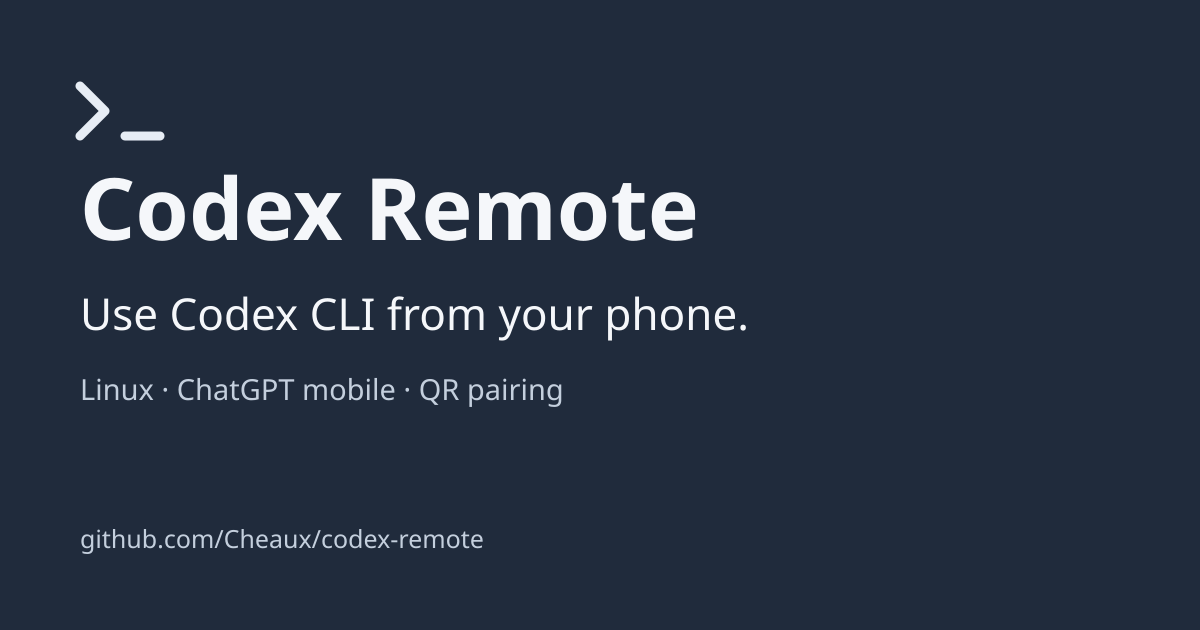
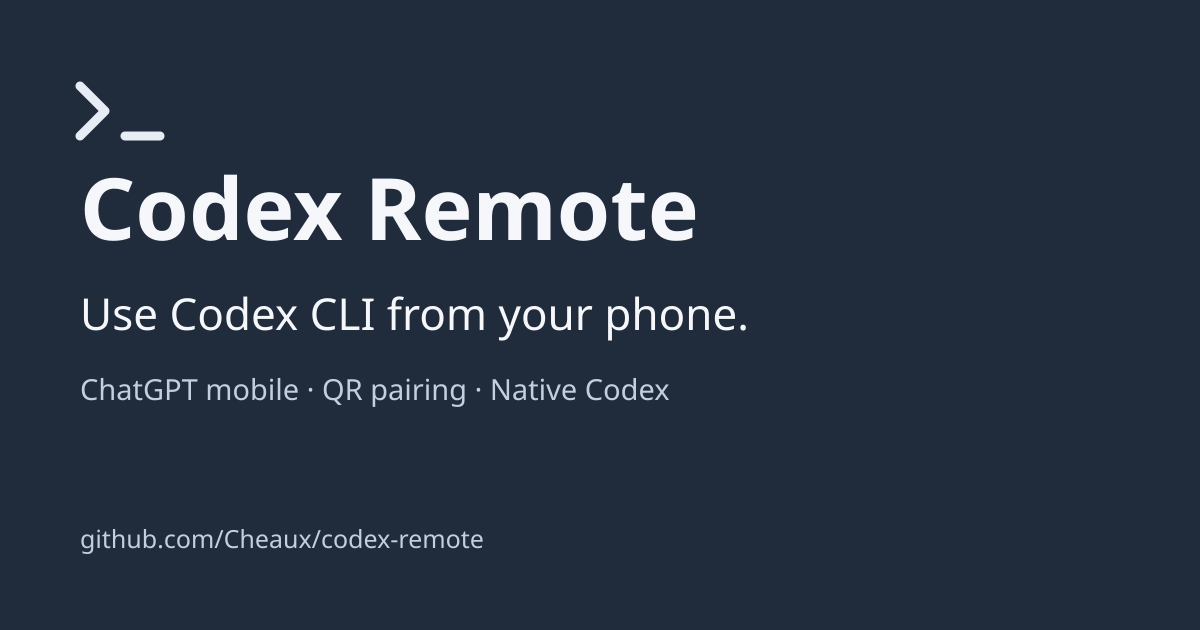
Document setup across operating systems with verification status

Changed region(s): [[0.0617, 0.6032, 0.555, 0.6635]]

diff --git a/README.md b/README.md
@@ -4,7 +4,9 @@
 [![Release](https://img.shields.io/github/v/release/Cheaux/codex-remote)](https://github.com/Cheaux/codex-remote/releases/latest)
 [![License: MIT](https://img.shields.io/badge/license-MIT-blue.svg)](LICENSE)
 
-**Connect Codex running on your Linux PC to the official ChatGPT phone app.** Generate a pairing QR, check connected devices, and manage remote access from your terminal or by asking Codex.
+**Connect Codex running on your computer to the official ChatGPT phone app.** Generate a pairing QR, check connected devices, and manage remote access from your terminal or by asking Codex.
+
+Use any operating system where Codex provides the required native managed-server remote interface. Linux is verified; macOS, Windows, and other operating systems are currently untested.
 
 Codex Remote is a community plugin by [Cheaux](https://github.com/Cheaux). It uses Codex's native remote service and your existing ChatGPT sign-in. OpenAI does not maintain or endorse this plugin.
 
@@ -25,7 +27,7 @@ The plugin uses the existing Codex daemon. It preserves local conversations and 
 
 You need:
 
-1. A **Linux PC** with **[Node.js 24 or newer](https://nodejs.org/en/download)**, including npm.
+1. A computer on **any OS** with **[Node.js 24 or newer](https://nodejs.org/en/download)**, including npm, and Codex's required native managed-server remote interface. See the [testing status](#compatibility) below.
 2. **[Codex CLI](https://learn.chatgpt.com/docs/cli/)** installed and signed in with ChatGPT. The tested Codex version is **0.163.0**.
 3. The official ChatGPT app on your phone, using the **same account and workspace** as Codex. Account or workspace policies may restrict remote access.
 4. An internet connection. Your PC must stay awake with Codex's managed server running while you use it remotely.
@@ -41,7 +43,9 @@ The native remote interface is experimental. **Android pairing and existing-chat
 
 ## Install and pair
 
-Run these commands in a regular terminal on your Linux PC. They install the built release into your user account; `sudo` is not needed.
+Run the commands for your shell in a regular terminal on your computer. The Bash/Zsh commands install into your user account without `sudo`.
+
+**Bash / Zsh (Linux or macOS):**
 
 ```sh
 export PATH="$HOME/.local/bin:$PATH"
@@ -50,6 +54,16 @@ npm install --global --prefix "$HOME/.local" --ignore-scripts \
 codex-remote install
 codex-remote qr
 ```
+
+**PowerShell (Windows, untested):**
+
+```powershell
+npm install --global --ignore-scripts https://github.com/Cheaux/codex-remote/releases/download/v0.1.0/codex-remote-0.1.0.tgz
+codex-remote install
+codex-remote qr
+```
+
+The PowerShell commands use npm's default global installation directory. Native Codex must expose the same managed-server remote interface; installation alone does not establish OS compatibility.
 
 `codex-remote install` registers the plugin with Codex. `codex-remote qr` enables persistent remote access if needed and displays a short-lived pairing code.
 
@@ -64,7 +78,7 @@ In that new Codex conversation, try:
 
 You only need a fresh QR when pairing another device or replacing an expired code. For an existing connection, ask **“Check my remote connection”** instead.
 
-If a new terminal cannot find `codex-remote`, add `export PATH="$HOME/.local/bin:$PATH"` to your shell's startup file. The [installation guide](https://cheaux.github.io/codex-remote/install/) explains this for Bash and Zsh.
+If a new Bash/Zsh terminal cannot find `codex-remote`, add `export PATH="$HOME/.local/bin:$PATH"` to your shell's startup file. For PowerShell, check that npm's global executable directory is on PATH. The [installation guide](https://cheaux.github.io/codex-remote/install/) explains both paths.
 
 ## Commands you will use
 
@@ -96,7 +110,8 @@ This standalone Remote release does not include that launcher. Without it, use `
 | iPhone pairing | Uses the same native link; end-to-end verification pending |
 | Creating a new chat from the phone | Verification pending |
 | Mobile approvals and steering an active task | Verification pending |
-| macOS or Windows hosts | Not supported by this release |
+| macOS or Windows hosts | Untested; requires a compatible native Codex managed-server remote interface |
+| Other operating systems | Untested; requires Node 24+ and the same native interface |
 | Sessions started with `--no-daemon` | Outside the shared server; not migrated by this plugin |
 
 A connected relay does not prove a phone has paired. Check both `status` and `devices list`. The plugin makes native remote features easier to access; it cannot bypass account restrictions or add missing native mobile features.
@@ -114,6 +129,8 @@ npm uninstall --global --prefix "$HOME/.local" codex-remote
 ```
 
 These removal commands preserve native device pairings and remote preferences. [More troubleshooting and answers](https://cheaux.github.io/codex-remote/troubleshooting/)
+
+On Windows, use the same two plugin removal commands, followed by `npm uninstall --global codex-remote` for the default-prefix installation above.
 
 ## How it works
 

diff --git a/docs/install.md b/docs/install.md
@@ -1,11 +1,11 @@
 ---
-title: Install Codex Remote on Linux
+title: Install Codex Remote on your computer
 description: Install the built Codex Remote release without sudo, register its plugin, configure PATH, and pair the ChatGPT phone app.
 permalink: /install/
 ---
 {% include nav.html %}
 
-# Install Codex Remote on Linux
+# Install Codex Remote on your computer
 
 These steps install the CLI into your user account and register its plugin with Codex. You do not need to build the source, create an API key, or install the separate Codex Folders launcher.
 
@@ -18,13 +18,13 @@ node --version
 codex --version
 ```
 
-Use a Linux PC. Codex **0.163.0** is the tested baseline; this plugin relies on its experimental native managed-server interface.
+Use any operating system where Codex exposes the required native managed-server remote interface. Linux with Codex **0.163.0** is the tested baseline. macOS, Windows, and other operating systems are untested; installing the package alone does not verify native compatibility.
 
 Install the official ChatGPT app on your phone and sign in with the same account and workspace. Some accounts or organizations may restrict remote access.
 
 ## 2. Install the built release
 
-Run this in your regular PC terminal:
+For **Bash/Zsh on Linux or macOS**, run this in your regular terminal:
 
 ```sh
 export PATH="$HOME/.local/bin:$PATH"
@@ -33,7 +33,14 @@ npm install --global --prefix "$HOME/.local" --ignore-scripts \
 codex-remote install
 ```
 
-No `sudo` is needed. The `.tgz` release already includes the built CLI and hidden plugin manifests. GitHub's automatic **Source code ZIP** is for development and does not include the built CLI.
+For **PowerShell on Windows (untested)**:
+
+```powershell
+npm install --global --ignore-scripts {{ site.release_url }}
+codex-remote install
+```
+
+The Bash/Zsh installation uses your user directory; the PowerShell installation uses npm's default global prefix. The `.tgz` release already includes the built CLI and hidden plugin manifests. GitHub's automatic **Source code ZIP** is for development and does not include the built CLI.
 
 The install command registers the bundled `codex-remote-local` marketplace and `codex-remote` plugin in your selected Codex home. It does not enable remote access or restart the server.
 
@@ -62,13 +69,13 @@ For an already paired phone, ask **“Check my remote connection”** to inspect
 
 ## Make the command available in future terminals
 
-If `codex-remote` is not found in a fresh terminal, put this line in the startup file for the shell you actually use:
+For the Bash/Zsh installation, if `codex-remote` is not found in a fresh terminal, put this line in the startup file for the shell you actually use:
 
 ```sh
 export PATH="$HOME/.local/bin:$PATH"
 ```
 
-For Zsh, edit `~/.zshrc`. For Bash, edit `~/.bashrc`. Add the line once, save, then open a new terminal. Also make sure `codex` remains available on PATH. [PATH troubleshooting]({{ '/troubleshooting/' | relative_url }}#command-not-found)
+For Zsh, edit `~/.zshrc`. For Bash, edit `~/.bashrc`. Add the line once, save, then open a new terminal. For the Windows installation, run `npm prefix --global` and check that directory is on PATH, then reopen your terminal. Also make sure `codex` remains available on PATH. [PATH troubleshooting]({{ '/troubleshooting/' | relative_url }}#command-not-found)
 
 ## Update
 
@@ -91,3 +98,5 @@ npm uninstall --global --prefix "$HOME/.local" codex-remote
 ```
 
 Uninstallation alone preserves native remote preferences and device pairings. Use `devices revoke DEVICE_ID` before uninstalling if you also want to remove a particular paired device.
+
+For the Windows default-prefix installation, use `npm uninstall --global codex-remote` after the same plugin and marketplace removal commands.

diff --git a/docs/index.md b/docs/index.md
@@ -1,13 +1,13 @@
 ---
 title: Control Codex CLI from your phone
-description: Connect terminal Codex on Linux to the official ChatGPT app. Install Codex Remote, scan a QR, and continue an existing chat from Android.
+description: Connect terminal Codex on your computer to the official ChatGPT app. Install Codex Remote, scan a QR, and continue an existing chat from Android.
 permalink: /
 ---
 {% include nav.html %}
 
 # Use Codex CLI from your phone
 
-**Codex Remote connects terminal Codex on your Linux PC to the official ChatGPT phone app.** Pair with a QR code, continue an existing chat, and manage remote devices from your terminal or by asking Codex.
+**Codex Remote connects terminal Codex on your computer to the official ChatGPT phone app.** Pair with a QR code, continue an existing chat, and manage remote devices from your terminal or by asking Codex.
 
 It is a community plugin by [Cheaux](https://github.com/Cheaux), using Codex's native remote service and your existing ChatGPT account. OpenAI does not maintain or endorse this project.
 
@@ -17,7 +17,7 @@ It is a community plugin by [Cheaux](https://github.com/Cheaux), using Codex's n
 
 ## What you need
 
-- A Linux PC with Node.js 24+ and Codex CLI signed in with ChatGPT.
+- A computer with Node.js 24+ and Codex CLI signed in with ChatGPT, on any OS that exposes the required native managed-server remote interface.
 - The official ChatGPT phone app, signed into the same account and workspace.
 - Your PC awake, online, and running Codex's managed server while you connect remotely.
 
@@ -39,7 +39,7 @@ The plugin preserves local sessions and existing pairings. There is no separate 
 
 Android pairing and continuing an existing conversation were verified on a real phone. iPhone uses the same native pairing link, but its end-to-end check is pending. New mobile chat creation, approvals, and steering also need further verification.
 
-This release supports Linux hosts. The native APIs are experimental; macOS and Windows hosts are not supported by this release. [Detailed compatibility and answers]({{ '/faq/' | relative_url }})
+Linux hosts are verified. macOS, Windows, and other operating systems are untested and need a compatible native managed-server remote interface. The native APIs are experimental. [Detailed compatibility and answers]({{ '/faq/' | relative_url }})
 
 ## Does this add `/qr` to Codex?
 

diff --git a/RELEASE_NOTES.md b/RELEASE_NOTES.md
@@ -1,8 +1,8 @@
-Connect Codex CLI on your Linux PC to the official ChatGPT phone app through Codex's native remote service.
+Connect Codex CLI on your computer to the official ChatGPT phone app through Codex's native remote service.
 
 ### Install
 
-Requires Linux, Node 24+, and Codex signed in with ChatGPT. Codex 0.163.0 is the tested baseline.
+Requires Node 24+ and Codex signed in with ChatGPT, on an OS exposing the required native managed-server remote interface. Linux with Codex 0.163.0 is verified; macOS, Windows, and other operating systems are untested. These commands use Bash/Zsh; see the installation guide for PowerShell commands.
 
 ```sh
 export PATH="$HOME/.local/bin:$PATH"
@@ -20,7 +20,7 @@ QR pairing, remote status, persistent enable/disable, paired-device management, 
 
 ### Verification and limitations
 
-Android pairing and continuing an existing chat were verified on a real phone. iPhone, new mobile chats, approvals, and steering remain unverified. The native APIs are experimental; account/workspace policies apply. Windows and macOS hosts are outside this release's support.
+Android pairing and continuing an existing chat were verified on a real phone with a Linux host. iPhone, new mobile chats, approvals, and steering remain unverified. The native APIs are experimental; account/workspace policies apply. Other computer operating systems are untested and require a compatible native interface.
 
 Download the `.tgz` asset below for installation. GitHub's automatic source ZIP does not include the built CLI. `SHA256SUMS` verifies the `.tgz` download.
 

diff --git a/docs/faq.md b/docs/faq.md
@@ -9,7 +9,7 @@ permalink: /faq/
 
 ## Can I use Codex CLI from the ChatGPT phone app?
 
-Codex Remote exposes Codex's native remote pairing from terminal Codex on Linux. Install the plugin, generate a QR on the PC, and finish setup in the official ChatGPT phone app with the same account and workspace. Android pairing and continuing an existing chat were verified. [Get started]({{ '/install/' | relative_url }})
+Codex Remote exposes Codex's native remote pairing from terminal Codex on your computer. Install the plugin, generate a QR, and finish setup in the official ChatGPT phone app with the same account and workspace. Android pairing and continuing an existing chat were verified on a Linux host. [Get started]({{ '/install/' | relative_url }})
 
 ## Do I need the Codex desktop app?
 
@@ -25,7 +25,7 @@ Those capabilities depend on the native Codex/ChatGPT mobile experience. This pr
 
 ## Can I use a Windows or Mac PC?
 
-This release supports Linux hosts and their managed-server Unix socket interface. Windows and macOS hosts are outside the supported scope. The phone's operating system is a separate compatibility question.
+The project targets any OS where native Codex provides the required managed-server remote interface. Linux has been verified; Windows and macOS are currently untested, so compatibility is not yet confirmed. The installation guide includes Bash/Zsh and PowerShell commands. The phone's operating system is a separate compatibility question.
 
 ## Is this an official OpenAI plugin?
 

diff --git a/docs/troubleshooting.md b/docs/troubleshooting.md
@@ -20,6 +20,8 @@ codex-remote --version
 
 For future terminals, add that export line once to `~/.zshrc` for Zsh or `~/.bashrc` for Bash. The [installation guide]({{ '/install/' | relative_url }}) uses `--prefix "$HOME/.local"`, so the executable is placed in `~/.local/bin`.
 
+For the Windows default-prefix installation, run `npm prefix --global` and check that directory is on PATH, then reopen PowerShell. macOS and Windows have not yet been verified end to end; the required native Codex interface must be available on the host.
+
 If `codex` itself is missing, install the official CLI and make it available on PATH. `CODEX_REMOTE_CODEX_BIN` can select a particular executable when needed.
 
 ## Codex cannot find the conversational tools
@@ -62,4 +64,4 @@ The plugin cannot persist a changed preference through the socket when no server
 
 ## Get help
 
-[Open an issue](https://github.com/Cheaux/codex-remote/issues/new/choose) with your Linux distribution, Node/Codex/Remote versions, phone OS, reproduction steps, and sanitized error. Do not include authentication files, pairing links, real QR codes, or private conversation content.
+[Open an issue](https://github.com/Cheaux/codex-remote/issues/new/choose) with your computer OS, Node/Codex/Remote versions, phone OS, reproduction steps, and sanitized error. Do not include authentication files, pairing links, real QR codes, or private conversation content.

diff --git a/docs/pairing.md b/docs/pairing.md
@@ -7,7 +7,7 @@ permalink: /pairing/
 
 # Pair ChatGPT on your phone with terminal Codex
 
-First [install Codex Remote]({{ '/install/' | relative_url }}). Keep your Linux PC awake and online during pairing and remote use.
+First [install Codex Remote]({{ '/install/' | relative_url }}). Keep your computer awake and online during pairing and remote use.
 
 ## Show a pairing QR
 
